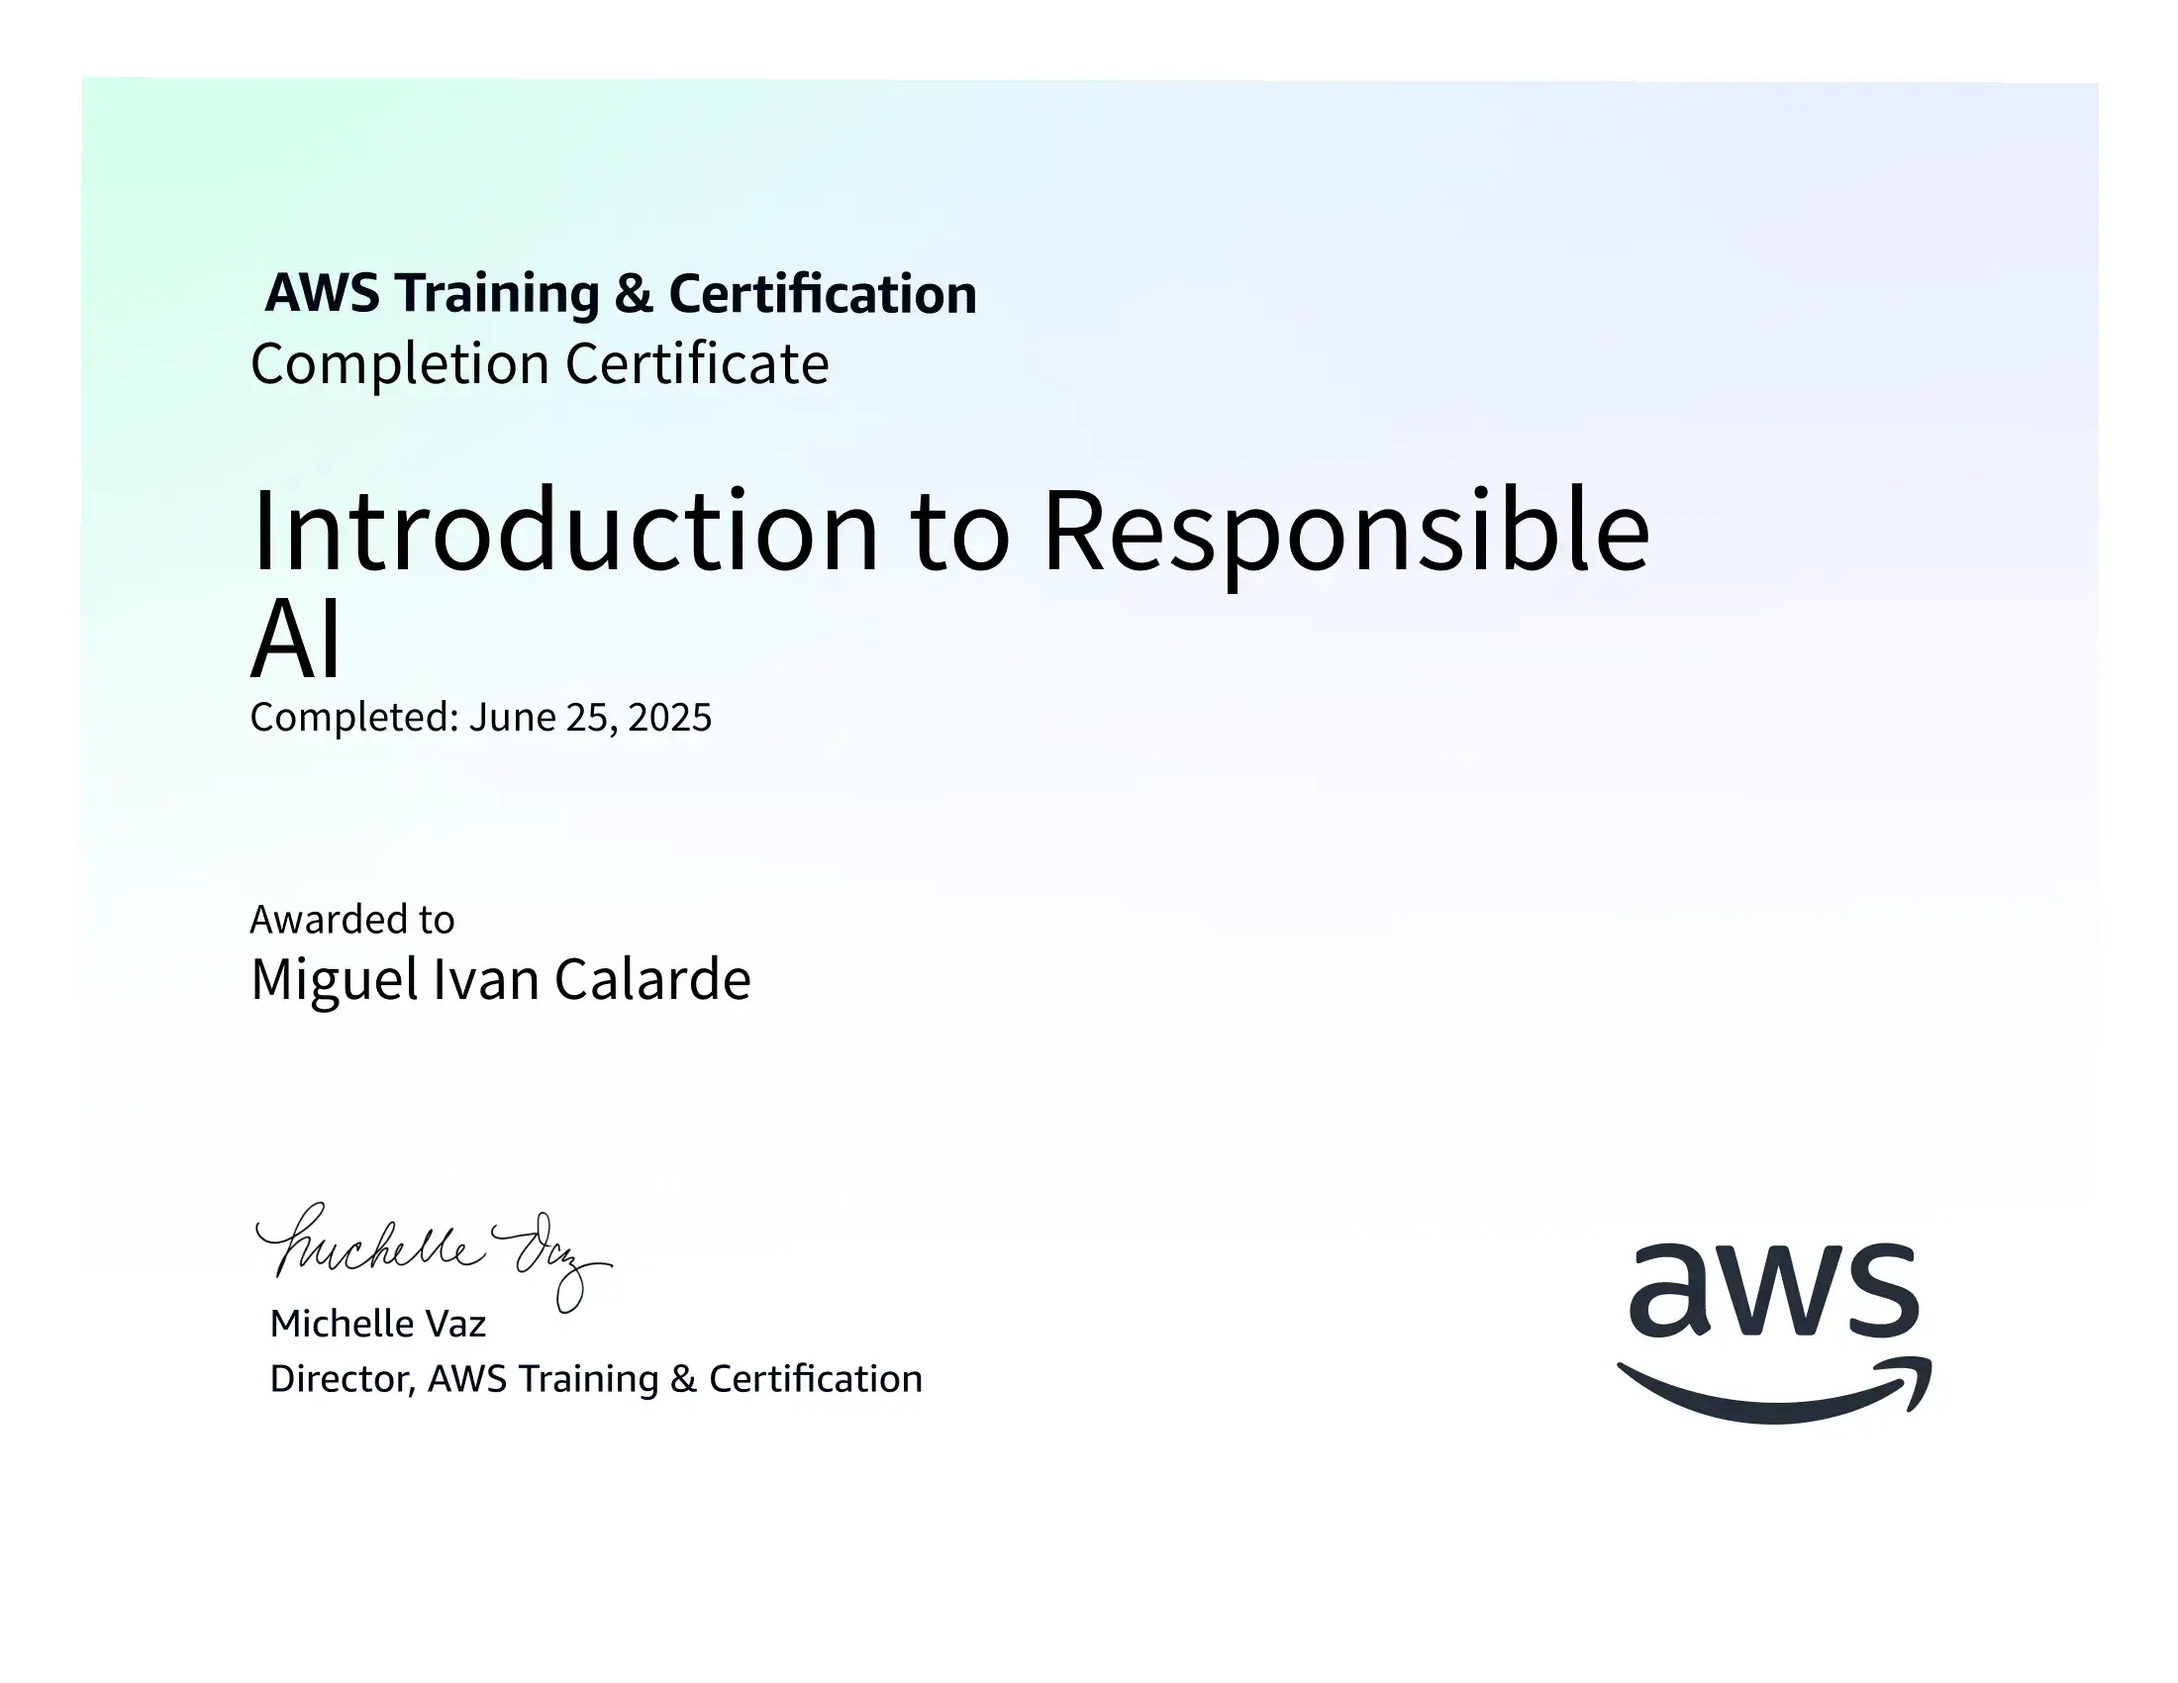
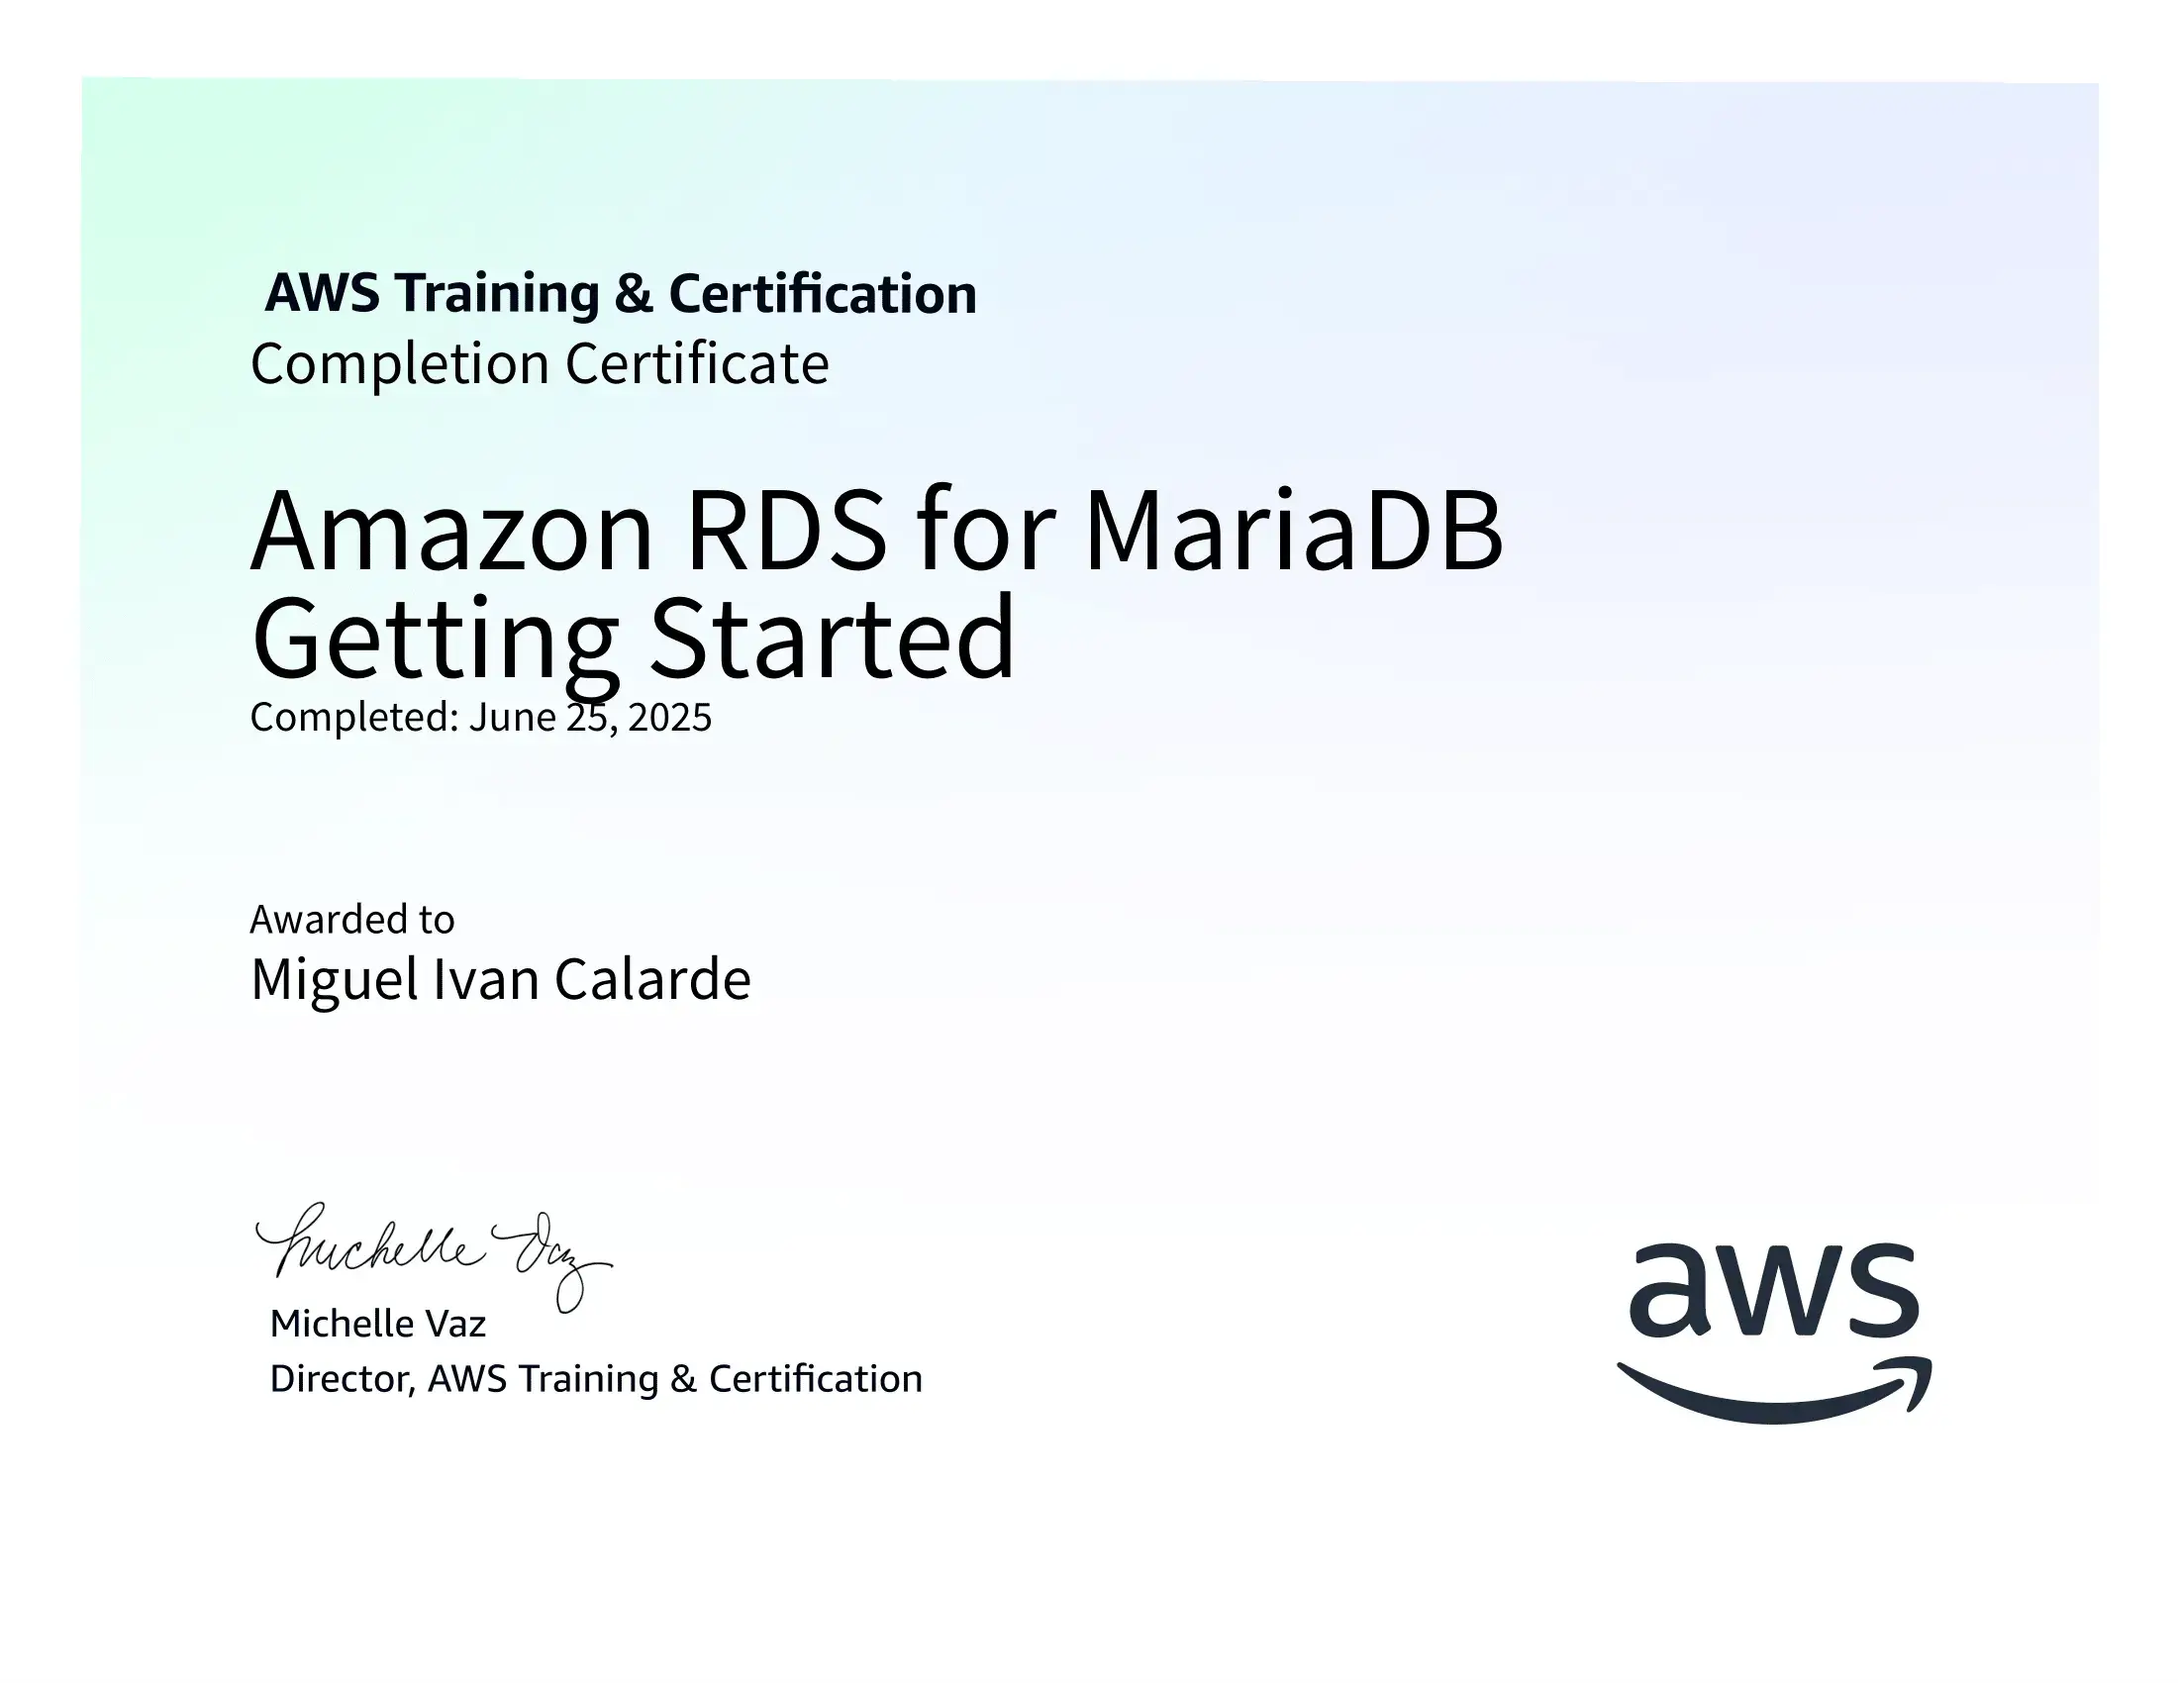
Added new certification to certifications

Changed region(s): [[0.0927, 0.2806, 0.4636, 0.4365], [0.4636, 0.2806, 0.7727, 0.3429]]

diff --git a/src/App.jsx b/src/App.jsx
@@ -889,35 +889,43 @@ const App = () => {
     },
     {
       id: 'cert-6',
-      name: 'Introduction to Database Migration',
-      issuer: 'Amazon Web Services (AWS)',
-      date: 'June 2025',
-      description: 'Learn how to migrate a production database using the AWS Database Migration Service (AWS DMS) and AWS Schema Conversion Tool (AWS SCT). Be introduced to the full database migration process, from envisioning to post-production support.',
+      name: 'CCNAv7 Switching, Routing, and Wireless Essentials',
+      issuer: 'Cisco Networking Academy',
+      date: 'Month 2024',
+      description: 'Introduced to the world of Information Technology, or IT. Learn about the different facets of Information Technology, like computer hardware, the Internet, computer software, troubleshooting, and customer service.',
       imageUrl: 'images/certificates/cert-6.webp'
     },
     {
       id: 'cert-7',
-      name: 'Amazon RDS for MariaDB Getting Started',
+      name: 'Introduction to Database Migration',
       issuer: 'Amazon Web Services (AWS)',
       date: 'June 2025',
-      description: 'Learn the benefits and technical concepts of Amazon RDS for MariaDB. If you are new to the service, learn how to start using Amazon RDS for MariaDB through a demonstration using the AWS Management Console.',
+      description: 'Learn how to migrate a production database using the AWS Database Migration Service (AWS DMS) and AWS Schema Conversion Tool (AWS SCT). Be introduced to the full database migration process, from envisioning to post-production support.',
       imageUrl: 'images/certificates/cert-7.webp'
     },
     {
       id: 'cert-8',
-      name: 'Introduction to Responsible AI',
+      name: 'Amazon RDS for MariaDB Getting Started',
       issuer: 'Amazon Web Services (AWS)',
       date: 'June 2025',
-      description: 'This course provides an overview of what responsible AI is and why it is important in the context of generative AI. Responsible AI refers to the development, deployment, and use of AI in an ethical, transparent, fair, and accountable manner.',
+      description: 'Learn the benefits and technical concepts of Amazon RDS for MariaDB. If you are new to the service, learn how to start using Amazon RDS for MariaDB through a demonstration using the AWS Management Console.',
       imageUrl: 'images/certificates/cert-8.webp'
     },
     {
       id: 'cert-9',
+      name: 'Introduction to Responsible AI',
+      issuer: 'Amazon Web Services (AWS)',
+      date: 'June 2025',
+      description: 'This course provides an overview of what responsible AI is and why it is important in the context of generative AI. Responsible AI refers to the development, deployment, and use of AI in an ethical, transparent, fair, and accountable manner.',
+      imageUrl: 'images/certificates/cert-9.webp'
+    },
+    {
+      id: 'cert-10',
       name: 'Getting Started with DevOps on AWS',
       issuer: 'Amazon Web Services (AWS)',
       date: 'June 2025',
       description: 'This beginner-level course is for technical learners in the development and operations domains who are interested in learning the basic concepts of DevOps on AWS. Using discussions, interactive content, and demonstrations, you will learn about culture, practices, and tools used in a DevOps environment. ',
-      imageUrl: 'images/certificates/cert-9.webp'
+      imageUrl: 'images/certificates/cert-10.webp'
     },
   ];
 
